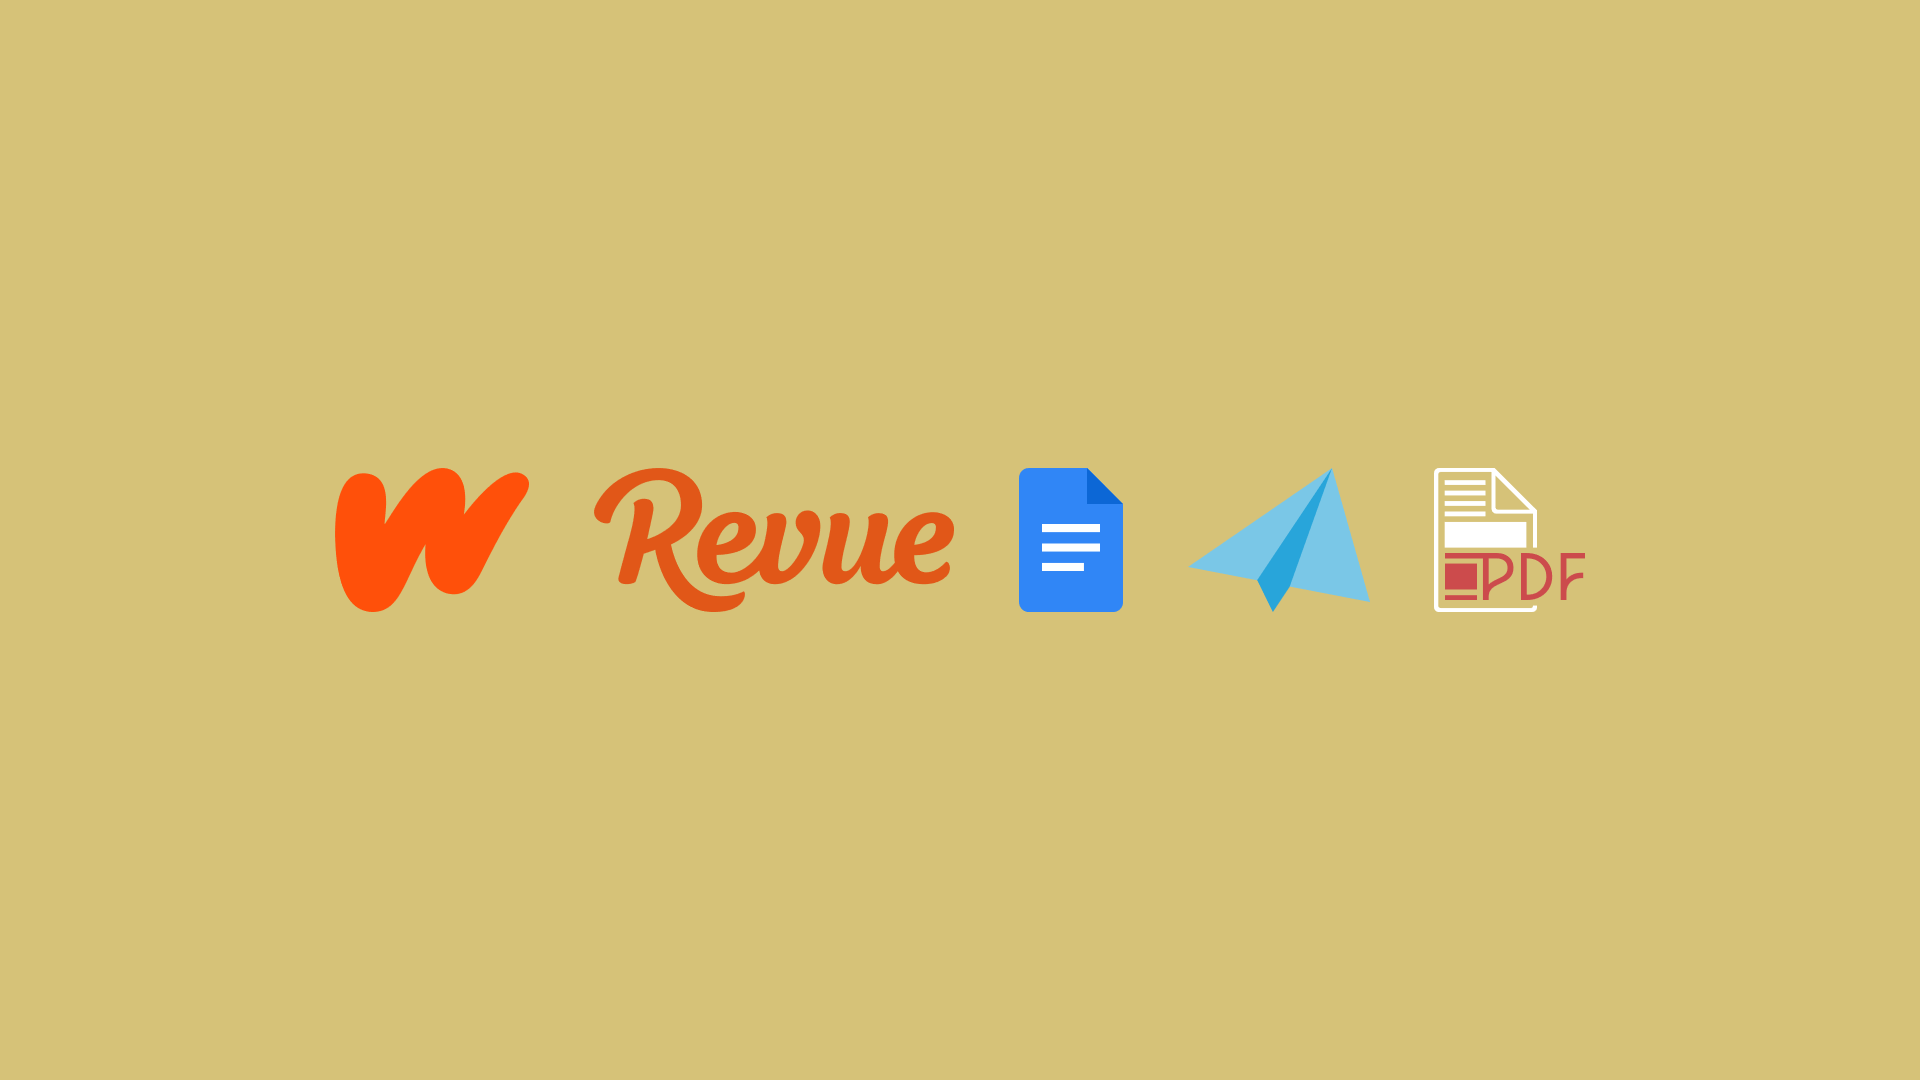
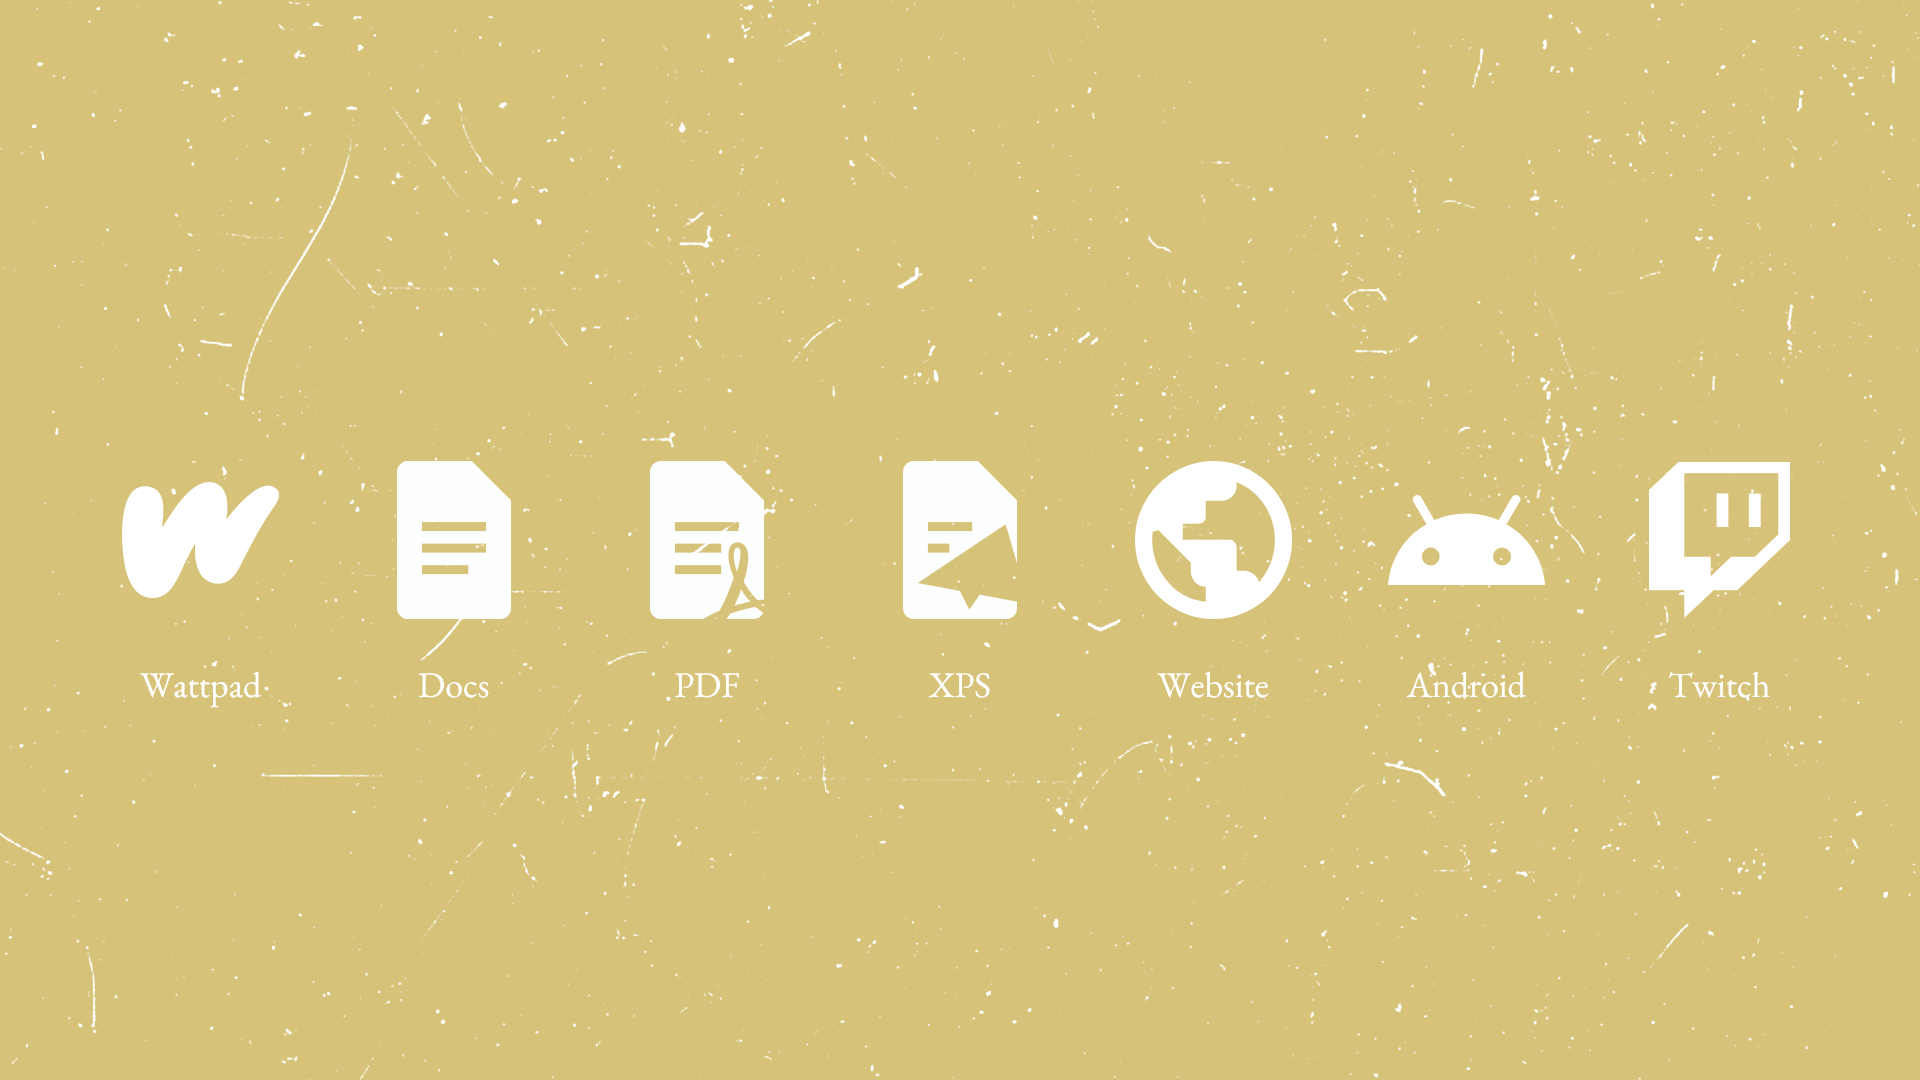
20230820: a tribute to Twitter
in this little major update, #MamaNyoSquad Publishing and Venus Island Diaries gets a new makeover in tribute to Twitter's branding.

diff --git a/publishing/index.html b/publishing/index.html
@@ -144,13 +144,12 @@
                   <h1>Universality, Redefined</h1>
                   <p>
                     #MamaNyoSquad Publishing aims to be universal where readers can read it at their own pace. For this,
-                    the publications in which it helmed are available on the following formats: Wattpad (for official
-                    publications), Revue, Google Docs, XPS (Open XML Paper Specifications) and PDF (Portable Document
-                    Format).
+                    the publications in which it helmed can be seen on Wattpad. Printables are available in Docs, PDF
+                    and XPS formats.
                   </p>
                   <p>
-                    We're working on other availabilities, such as a separate page for all the publications in case others
-                    don't work out for you!
+                    As we usher forward in the digital age, we've also featured our publications on our website and on the
+                    app. See it unfolds as the Author makes his mark on Twitch.
                   </p>
                 </div>
               </div>

diff --git a/css/publishing.css b/css/publishing.css
@@ -63,6 +63,10 @@ header {
 
 footer {
   background-color: #161224;
+  background-image: url(../media/images/vidiaries_2024_scratch.png);
+  background-size: cover;
+  background-position: center bottom;
+  background-repeat: no-repeat;
   padding: 19px;
   text-align: center;
 }
@@ -125,7 +129,8 @@ a:active {
   padding: 237.5px 95px;
   text-align: center;
   background-color: #66666680;
-  background-image: url(../media/images/venus_V_transparent.png);
+  background-image: url(../media/images/venus_V_transparent.png), url(../media/images/vidiaries_2024_scratch.png);
+  background-blend-mode: normal;
   background-size: cover;
   background-position: 10% center;
   background-repeat: no-repeat;
